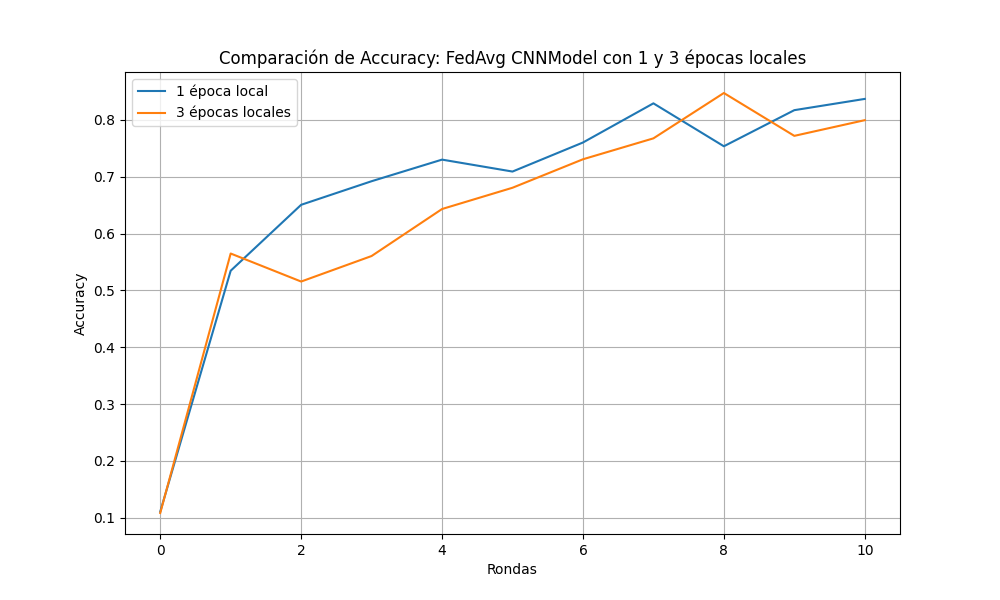
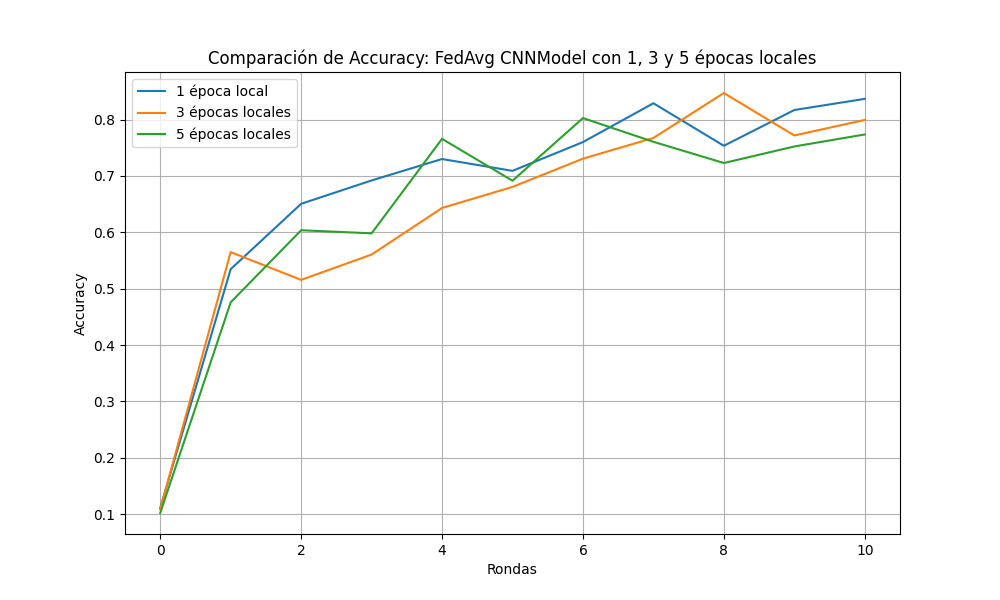
Experimento local-epochs=5

diff --git a/p2/1-AprendizajeFederado/metrics.py b/p2/1-AprendizajeFederado/metrics.py
@@ -29,6 +29,7 @@ if __name__ == "__main__":
     metrics_FedAvg_CNNModel = pd.read_csv("metrics\\metrics_FedAvg_CNNModel.csv")
     metrics_FedProx_CNNModel = pd.read_csv("metrics\\metrics_FedProx_CNNModel.csv")
     metrics_FedAvg_CNNModel_local_epochs_3 = pd.read_csv("metrics\\metrics_FedAvg_CNNModel_local-epochs_3.csv")
+    metrics_FedAvg_CNNModel_local_epochs_5 = pd.read_csv("metrics\\metrics_FedAvg_CNNModel_local-epochs_5.csv")
 
     # MLPSimple: FedAvg vs FedProx
     plot_metrics(
@@ -96,22 +97,22 @@ if __name__ == "__main__":
         name_file="Loss_Comparacion_General"
     )
 
-# COMPARAR FedAvg CNNModel con 1 y 3 épocas locales
+# Comparar FedAvg CNNModel con 1, 3 y 5 épocas locales
     plot_metrics(
-        dataframes=[metrics_FedAvg_CNNModel, metrics_FedAvg_CNNModel_local_epochs_3],
+        dataframes=[metrics_FedAvg_CNNModel, metrics_FedAvg_CNNModel_local_epochs_3, metrics_FedAvg_CNNModel_local_epochs_5],
         metric="accuracy",
-        title="Comparación de Accuracy: FedAvg CNNModel con 1 y 3 épocas locales",
+        title="Comparación de Accuracy: FedAvg CNNModel con 1, 3 y 5 épocas locales",
         xlabel="Rondas",
         ylabel="Accuracy",
-        labels=["1 época local", "3 épocas locales"],
+        labels=["1 época local", "3 épocas locales", "5 épocas locales"],
         name_file="Accuracy_FedAvg_CNNModel_local_epochs"
     )
     plot_metrics(
-        dataframes=[metrics_FedAvg_CNNModel, metrics_FedAvg_CNNModel_local_epochs_3],
+        dataframes=[metrics_FedAvg_CNNModel, metrics_FedAvg_CNNModel_local_epochs_3, metrics_FedAvg_CNNModel_local_epochs_5],
         metric="loss",
-        title="Comparación de Loss: FedAvg CNNModel con 1 y 3 épocas locales",
+        title="Comparación de Loss: FedAvg CNNModel con 1, 3 y 5 épocas locales",
         xlabel="Rondas",
         ylabel="Loss",
-        labels=["1 época local", "3 épocas locales"],
+        labels=["1 época local", "3 épocas locales", "5 épocas locales"],
         name_file="Loss_FedAvg_CNNModel_local_epochs"
     )

diff --git a/p2/memoria.md b/p2/memoria.md
@@ -59,6 +59,10 @@ Finalmente se han realizado los siguientes experimentos con el modelo final:
  
 ### 2. Analizar el impacto de hiperparámetros propios de FL: número de épocas locales, proporción de clientes seleccionados por ronda, etc.
 
+En el aprendizaje federado, más allá de los que existen en el entrenamiento clásico, existen hiperparámetros específicos que influyen en el rendimiento del modelo. Entre ellos, podemos destacar el número de épocas locales, que determina cuántas veces cada cliente entrena su modelo local antes de enviar los parámetros al servidor o la proporción de clientes seleccionados por ronda.
+
+
+
 \newpage
 
 # Parte II: Aprendizaje Continuo con River
